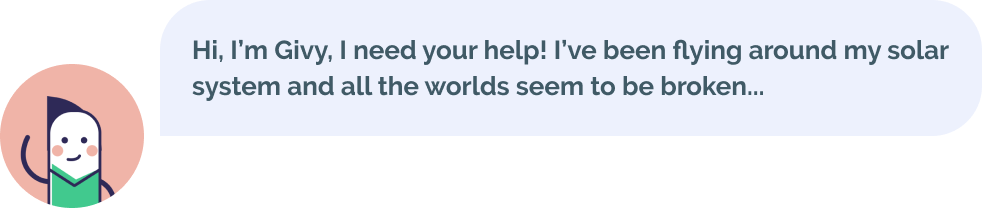
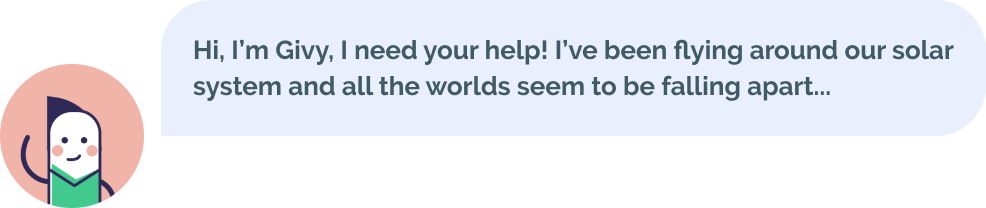
Updated intro pages

Changed region(s): [[0.3055, 0.1731, 0.9776, 0.3173], [0.3055, 0.3462, 0.8554, 0.4904], [0.0611, 0.6058, 0.1222, 0.9808]]

diff --git a/lib/givt/impact_goal/quiz/intro_final.dart b/lib/givt/impact_goal/quiz/intro_final.dart
@@ -22,21 +22,21 @@ class IntroFinal extends StatelessWidget {
           ),
           Positioned(
             top: 280,
-            left: 120,
+            left: 230,
             child: Image.asset(
               'assets/images/givy_solar_final.png',
               fit: BoxFit.fill,
             ),
           ),
           Positioned(
-            top: 450,
-            left: 480,
+            top: 430,
+            left: 400,
             child: ElevatedButton(
               onPressed: () {
                 Navigator.of(context).push(DiscoverWorldPage.route());
               },
               style: ElevatedButton.styleFrom(
-                backgroundColor: const Color(0xFF56BFE0),
+                backgroundColor: const Color(0xFFFFB059),
                 shape: RoundedRectangleBorder(
                   borderRadius: BorderRadius.circular(30),
                 ),
@@ -45,9 +45,9 @@ class IntroFinal extends StatelessWidget {
                 padding: const EdgeInsets.symmetric(vertical: 23),
                 alignment: Alignment.center,
                 child: const Padding(
-                  padding: EdgeInsets.symmetric(horizontal: 20),
+                  padding: EdgeInsets.symmetric(horizontal: 120),
                   child: Text(
-                    'Yes! Let’s go',
+                    'Let’s go',
                     style: TextStyle(
                       fontSize: 30,
                       color: Colors.white,

diff --git a/lib/givt/impact_goal/quiz/intro_first.dart b/lib/givt/impact_goal/quiz/intro_first.dart
@@ -22,7 +22,7 @@ class IntroFirst extends StatelessWidget {
           ),
           Positioned(
             top: 280,
-            left: 120,
+            left: 80,
             child: GestureDetector(
               onTap: () {
                 Navigator.of(context).push(IntroSecond.route());
